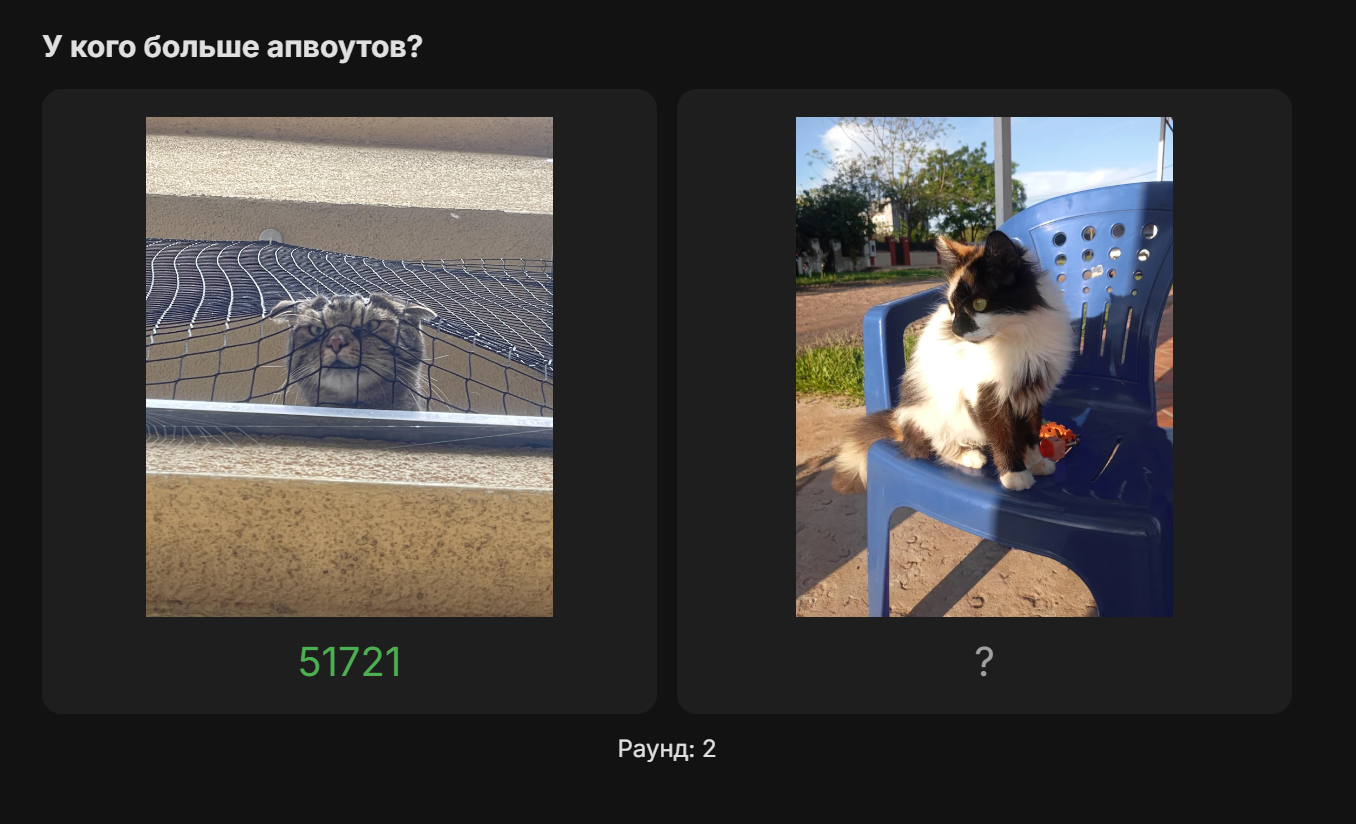
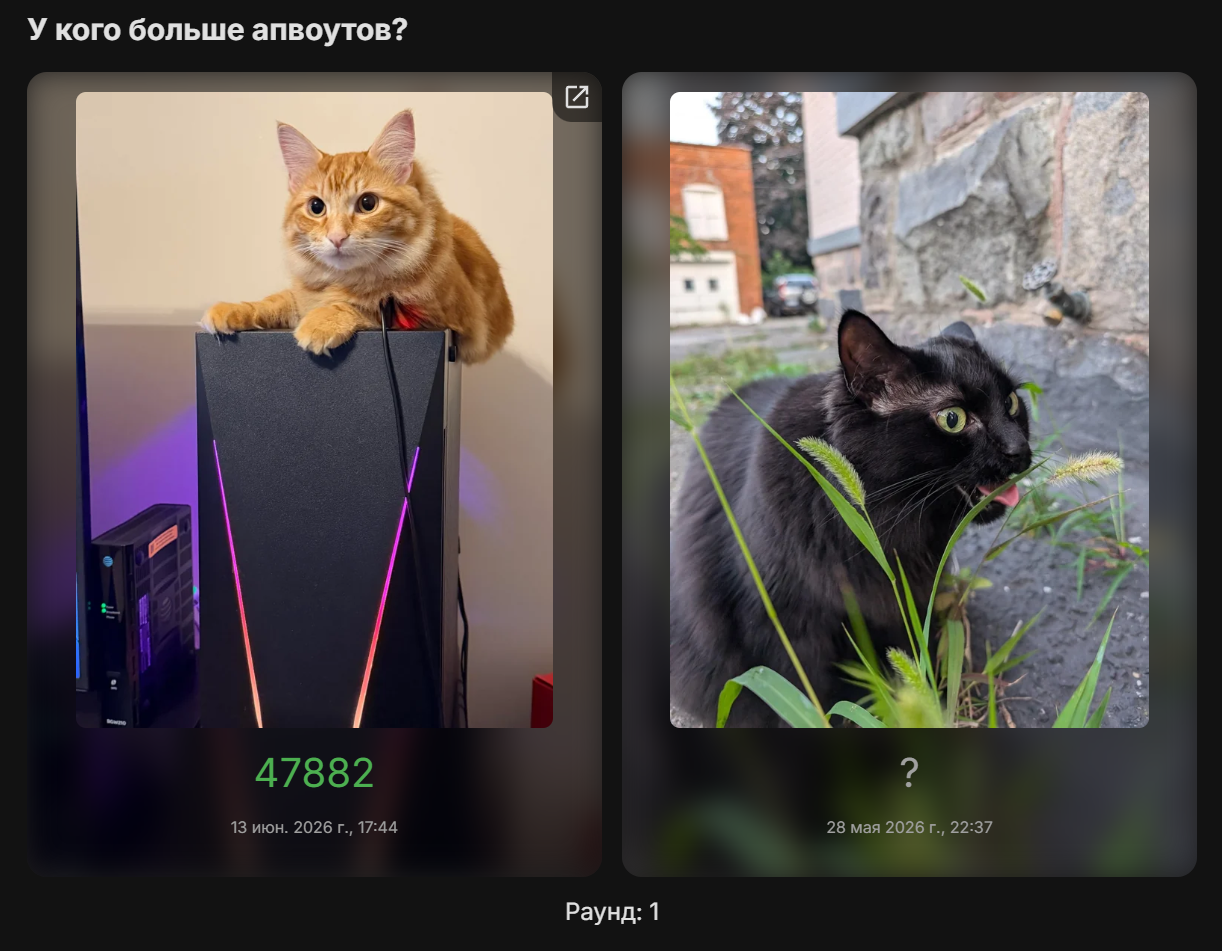
feat: restyle Card component; add post creation date and link to original post

diff --git a/app/components/Card.vue b/app/components/Card.vue
@@ -2,25 +2,66 @@
     <div
         class="card"
         :class="{ appearing: appearing }">
-        <img
-            :src="post.img_url"
-            alt="Post Image"
-            class="card__image"
-            @load="onImageLoad" />
-        <div
-            class="card__score"
-            :class="{ 'card__score--unknown': post.score == null }">
-            {{ post.score ?? "?" }}
+        <div class="card__image">
+            <img
+                :src="post.img_url"
+                alt="Post Image"
+                @load="onImageLoad" />
         </div>
+
+        <div class="card__backdrop">
+            <img
+                :src="post.img_url"
+                alt="Backdrop Image"
+                class="card__backdrop-image" />
+        </div>
+        <a
+            v-if="openOrig"
+            :href="post.img_url"
+            target="_blank"
+            class="card__open-orig">
+            <svg
+                xmlns="http://www.w3.org/2000/svg"
+                width="24"
+                height="24"
+                viewBox="0 0 24 24">
+                <!-- Icon from Material Symbols by Google - https://github.com/google/material-design-icons/blob/master/LICENSE -->
+                <path
+                    fill="currentColor"
+                    d="M5 21q-.825 0-1.412-.587T3 19V5q0-.825.588-1.412T5 3h7v2H5v14h14v-7h2v7q0 .825-.587 1.413T19 21zm4.7-5.3l-1.4-1.4L17.6 5H14V3h7v7h-2V6.4z" />
+            </svg>
+        </a>
+        <footer class="card__footer">
+            <div
+                class="card__score"
+                :class="{ 'card__score--unknown': post.score == null }">
+                {{ post.score ?? "?" }}
+            </div>
+            <div class="card__created-at">
+                {{ formattedDate }}
+            </div>
+        </footer>
     </div>
 </template>
 <script lang="ts" setup>
 const props = defineProps<{
     post: Post;
+    openOrig: boolean;
     appearing: boolean;
 }>();
 
 const emit = defineEmits(["appearFinished", "imageLoaded"]);
+
+const formattedDate = computed(() => {
+    const date = new Date(props.post.created_at);
+    return date.toLocaleTimeString([], {
+        year: "numeric",
+        month: "short",
+        day: "numeric",
+        hour: "2-digit",
+        minute: "2-digit",
+    });
+});
 
 setTimeout(() => {
     emit("appearFinished");
@@ -34,7 +75,7 @@ watch(
                 emit("appearFinished");
             }, 500);
         }
-    }
+    },
 );
 
 function onImageLoad() {
@@ -48,31 +89,86 @@ function onImageLoad() {
 .card {
     display: flex;
     flex-direction: column;
-    gap: var(--gap-normal);
     align-items: center;
     justify-content: center;
-    height: 500px;
     flex: 1;
     border-radius: var(--border-radius);
     background-color: var(--color-background-secondary);
+    position: relative;
+    overflow: hidden;
+    padding: var(--gap-normal);
 
     &.appearing {
         animation: appear 0.5s ease-in-out;
     }
 
-    .card__image {
-        max-width: 100%;
-        max-height: 400px;
-        display: block;
+    &__open-orig {
+        display: flex;
+        align-items: center;
+        position: absolute;
+        right: 0;
+        top: 0;
+        padding: var(--padding-small);
+        border-radius: 0 var(--border-radius) 0 var(--border-radius);
+        background-color: rgba(0, 0, 0, 0.5);
+        color: var(--color-text);
+        z-index: 2;
+        cursor: pointer;
     }
 
-    .card__score {
+    &__image {
+        max-height: 50dvh;
+        flex: 1;
+        z-index: 1;
+        display: flex;
+        align-items: center;
+
+        img {
+            max-width: 100%;
+            max-height: 100%;
+
+            border-radius: var(--border-radius-small);
+            object-fit: contain;
+        }
+    }
+
+    &__footer {
+        display: flex;
+        flex-direction: column;
+        align-items: center;
+        gap: var(--gap-normal);
+        width: 100%;
+        padding: var(--gap-normal);
+        z-index: 1;
+    }
+
+    &__backdrop {
+        position: absolute;
+        left: 0;
+        top: 0;
+        width: 100%;
+        height: 100%;
+        filter: blur(12px) brightness(0.5);
+
+        img {
+            width: 100%;
+            height: 100%;
+            object-fit: cover;
+        }
+    }
+
+    &__score {
         color: var(--color-green);
         font-size: 2rem;
 
         &--unknown {
             color: var(--color-text-secondary);
         }
+    }
+
+    &__created-at {
+        color: var(--color-text-secondary);
+        font-size: 0.8rem;
     }
 }
 

diff --git a/server/api/game/[id].post.ts b/server/api/game/[id].post.ts
@@ -29,8 +29,8 @@ export default defineEventHandler(async (event) => {
 
         const data = await db.query(
             `SELECT
-                p1.post_id AS post_id_1, p1.score as score_1, p1.img_url AS img_url_1,
-                p2.post_id AS post_id_2, p2.score as score_2, p2.img_url AS img_url_2
+                p1.post_id AS post_id_1, p1.score as score_1, p1.img_url AS img_url_1, p1.created_at AS created_at_1,
+                p2.post_id AS post_id_2, p2.score as score_2, p2.img_url AS img_url_2, p2.created_at AS created_at_2
             FROM game JOIN post AS p1 ON game.post_id_1 = p1.post_id JOIN post AS p2 ON game.post_id_2 = p2.post_id WHERE game.id = $1`,
             [gameId],
         );
@@ -44,6 +44,7 @@ export default defineEventHandler(async (event) => {
             post_id: gameInfo.post_id_2,
             score: gameInfo.score_2,
             img_url: gameInfo.img_url_2,
+            created_at: gameInfo.created_at_2,
         };
 
         score1 = gameInfo.score_1;
@@ -117,11 +118,13 @@ export default defineEventHandler(async (event) => {
                         post_id: post1.post_id,
                         score: post1.score,
                         img_url: post1.img_url,
+                        created_at: post1.created_at,
                     },
                     {
                         post_id: post2.post_id,
                         score: null,
                         img_url: post2.img_url,
+                        created_at: post2.created_at,
                     },
                 ],
             },

diff --git a/app/pages/index.vue b/app/pages/index.vue
@@ -10,12 +10,14 @@
                 <Card
                     :post="gameData.posts[0]!"
                     :appearing="appearing[0]"
+                    :open-orig="true"
                     @click="select(1)"
                     @appear-finished="appearing[0] = false"
                     @image-loaded="imageLoaded[0] = true" />
                 <Card
                     :post="gameData.posts[1]!"
                     :appearing="appearing[1]"
+                    :open-orig="gameFinished"
                     @click="select(2)"
                     @appear-finished="appearing[1] = false"
                     @image-loaded="imageLoaded[1] = true" />
@@ -50,11 +52,13 @@ const gameData = ref<Game>({
             post_id: "",
             score: null,
             img_url: "",
+            created_at: "",
         },
         {
             post_id: "",
             score: null,
             img_url: "",
+            created_at: "",
         },
     ],
 });

diff --git a/server/api/game/new.post.ts b/server/api/game/new.post.ts
@@ -51,11 +51,13 @@ export default defineEventHandler(async () => {
                     post_id: post1.post_id,
                     score: post1.score,
                     img_url: post1.img_url,
+                    created_at: post1.created_at,
                 },
                 {
                     post_id: post2.post_id,
                     score: null,
                     img_url: post2.img_url,
+                    created_at: post2.created_at,
                 },
             ],
         },

diff --git a/app/assets/scss/variables.scss b/app/assets/scss/variables.scss
@@ -30,6 +30,8 @@
 
 :root {
     --border-radius: 16px;
+    --border-radius-small: 8px;
+
     --padding-normal: 1rem;
     --padding-large: 2rem;
     --padding-small: 0.5rem;

diff --git a/shared/types/app.ts b/shared/types/app.ts
@@ -2,6 +2,7 @@ export interface Post {
     post_id: string;
     score: number | null;
     img_url: string;
+    created_at: string;
 }
 
 export interface Game {

diff --git a/app/assets/scss/app.scss b/app/assets/scss/app.scss
@@ -27,3 +27,7 @@ main {
     width: 100%;
     margin: 0 auto;
 }
+
+* {
+    box-sizing: border-box;
+}
